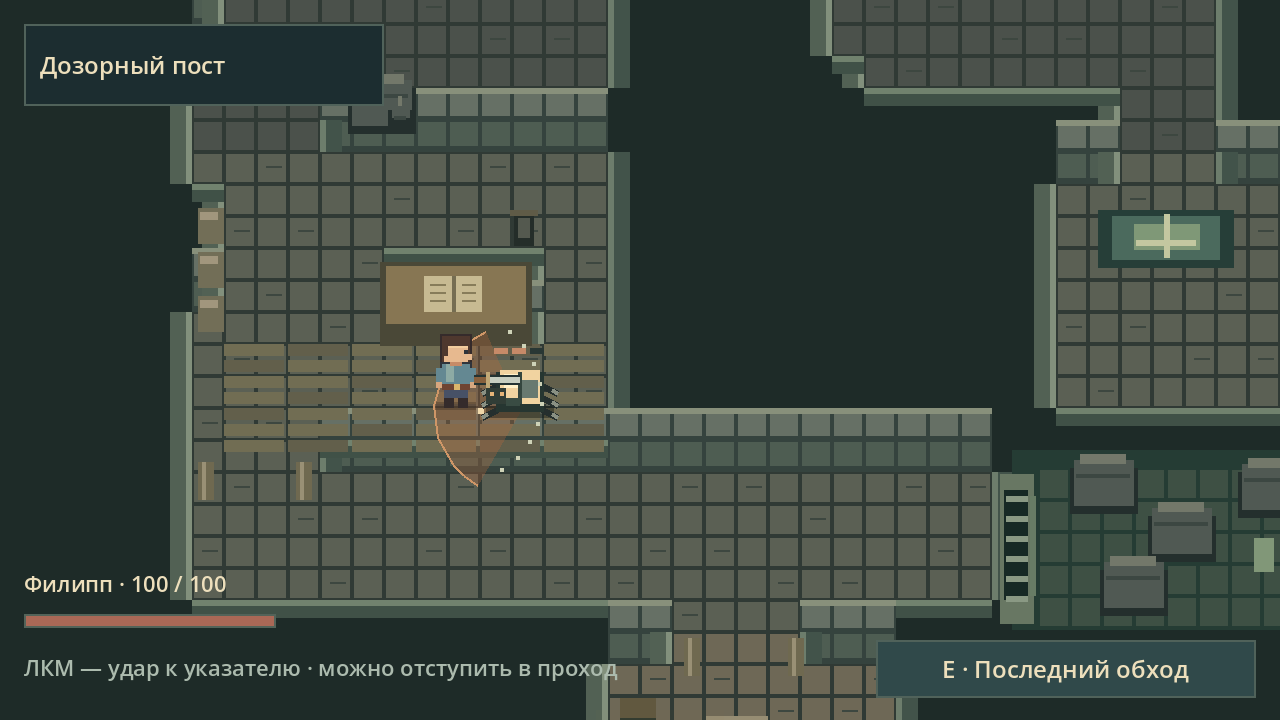
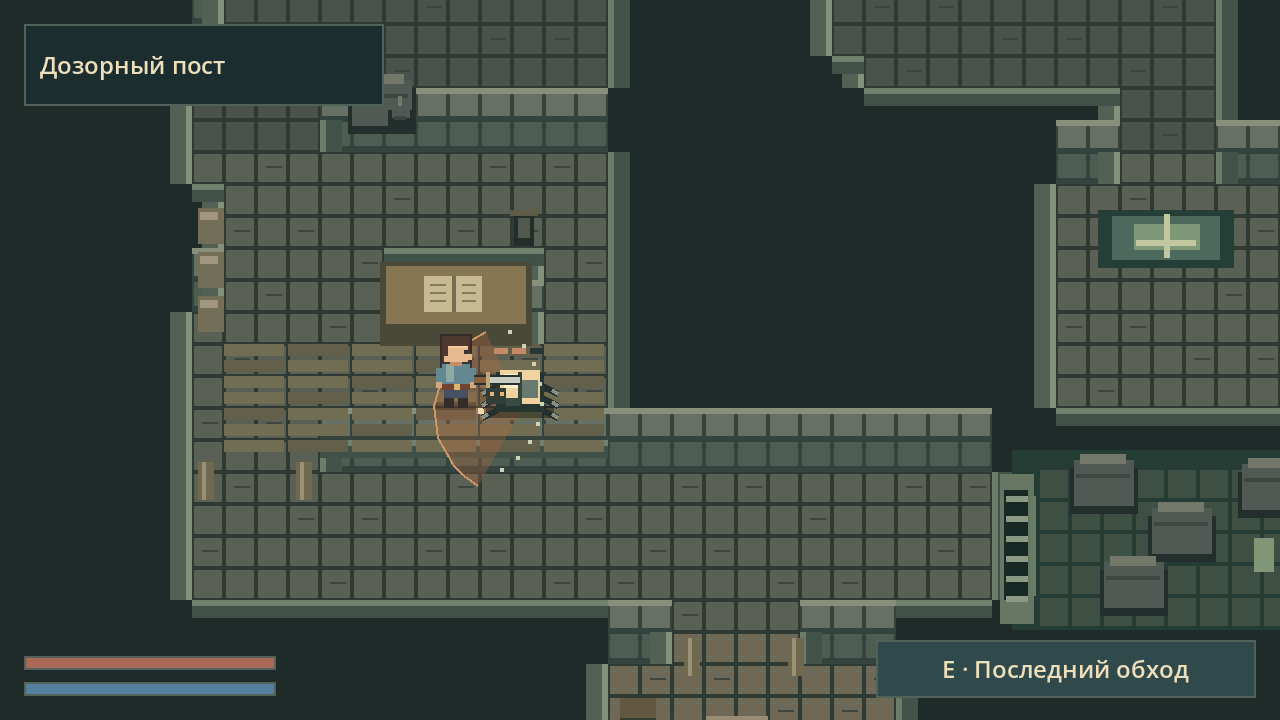
Simplify combat HUD and place mana below health

Changed region(s): [[0.0, 0.8556, 0.5, 0.9778], [0.0, 0.7944, 0.1875, 0.825]]

diff --git a/DEVELOPMENT_LOG.md b/DEVELOPMENT_LOG.md
@@ -242,3 +242,16 @@
 
 СТОП P2: дать Филиппу оценить темп, наведение и читаемость боя. Рост, книги,
 новые противники, оружие и боевые награды до этой оценки не добавлять.
+
+## 2026-09-14 · Компактные полосы здоровья и маны
+
+По правке Филиппа сохранены размер и стиль полосы здоровья; она опущена к нижнему
+левому краю (y=328). Под ней добавлена синяя полоса маны (y=341). Имя героя,
+числовое здоровье и обучающая подсказка боя удалены с основного экрана.
+Мана пока полная заготовка интерфейса: заклинания и расход ресурса не добавлялись.
+Управление, правила боя, видимость HUD и формат сохранений не менялись.
+
+Проверено: графический tests/combat.gd — 0 ошибок, включая мышь, клавиатуру,
+паузу и восстановление. Просмотрен новый кадр 16:9: полосы не перекрывают друг
+друга и контекстное действие. Обновлены описание P2 и PROJECT_STATE.
+Следующая точка — оценка боя автором; эта правка не означает приёмку всего P2.

diff --git a/PROJECT_STATE.md b/PROJECT_STATE.md
@@ -58,6 +58,9 @@
 - post_combat.gd — локальный контроллер караульной: ЛКМ, подготовка/удар/восстановление
   врага, путь вокруг мебели, отступление, поражение, компактный HUD. post_combat_art.gd
   рисует ползуна, клинок и предупреждение. Гильдия и площадь остаются безопасными.
+- Боевой HUD по правке автора: две тонкие полосы у нижнего левого края,
+  здоровье сверху, мана снизу. Без имени, чисел здоровья и обучающей подсказки.
+  Мана пока только полная полоса интерфейса; заклинаний и расхода ещё нет.
 - `quest_catalog.gd` — определения дополнительных поручений и предметов.
 - `ui_theme.gd` — единый стиль и изоляция фокуса; `game_hud.gd` — компактный HUD,
   контекстные действия мышью, цель и уведомления. `item_icon.gd` рисует иконки.

diff --git a/docs/COMBAT_P2.md b/docs/COMBAT_P2.md
@@ -43,7 +43,9 @@
 
 ## Интерфейс и ввод
 
-Около караульной появляется компактное здоровье слева внизу и подсказка ЛКМ.
+Около караульной слева внизу две тонкие полосы: здоровье и под ним мана.
+По правке автора здоровье опущено ниже, имя, числа и обучающая подсказка убраны.
+Мана пока отображается полной: это заготовка интерфейса без заклинаний и расхода.
 В безопасных местах и после победы боевой HUD скрыт. Новых кнопок сумки,
 журнала, денег или постоянной боевой панели на главном экране нет.
 
